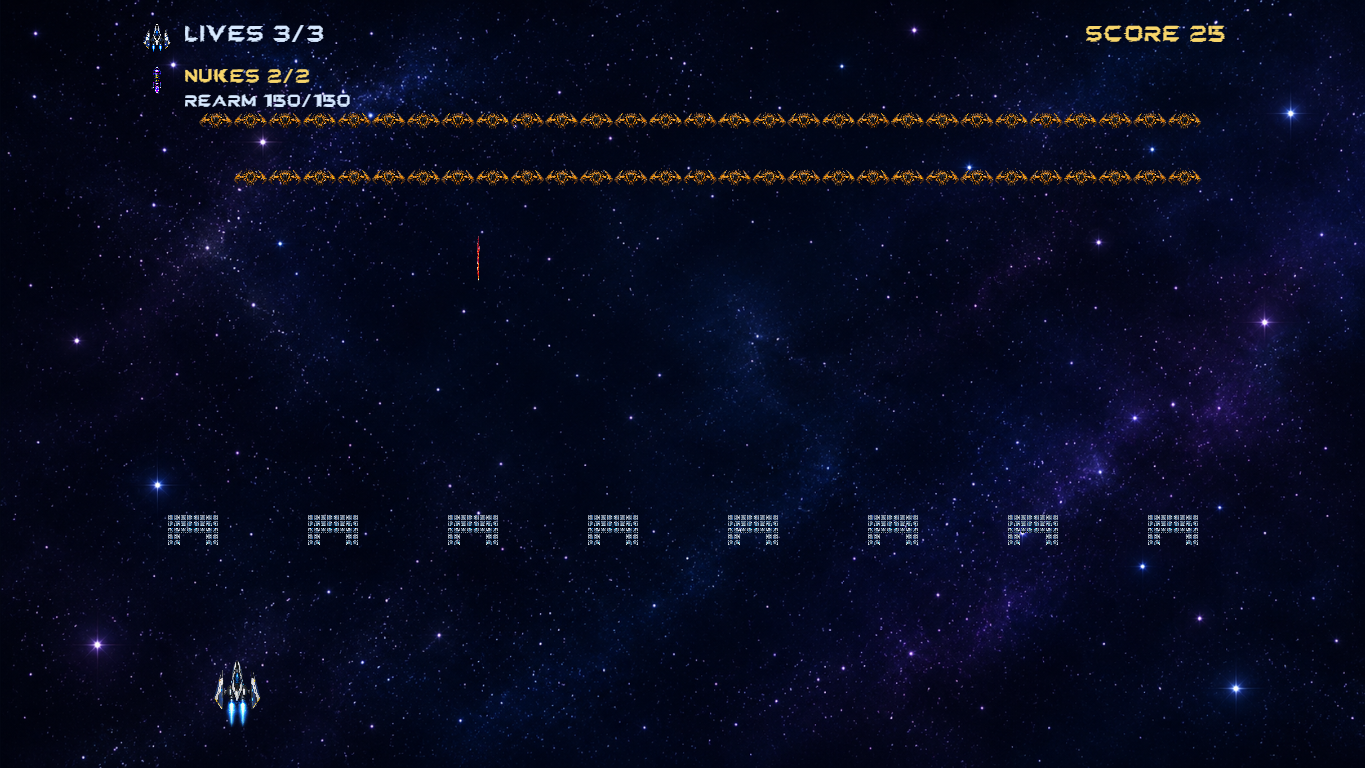
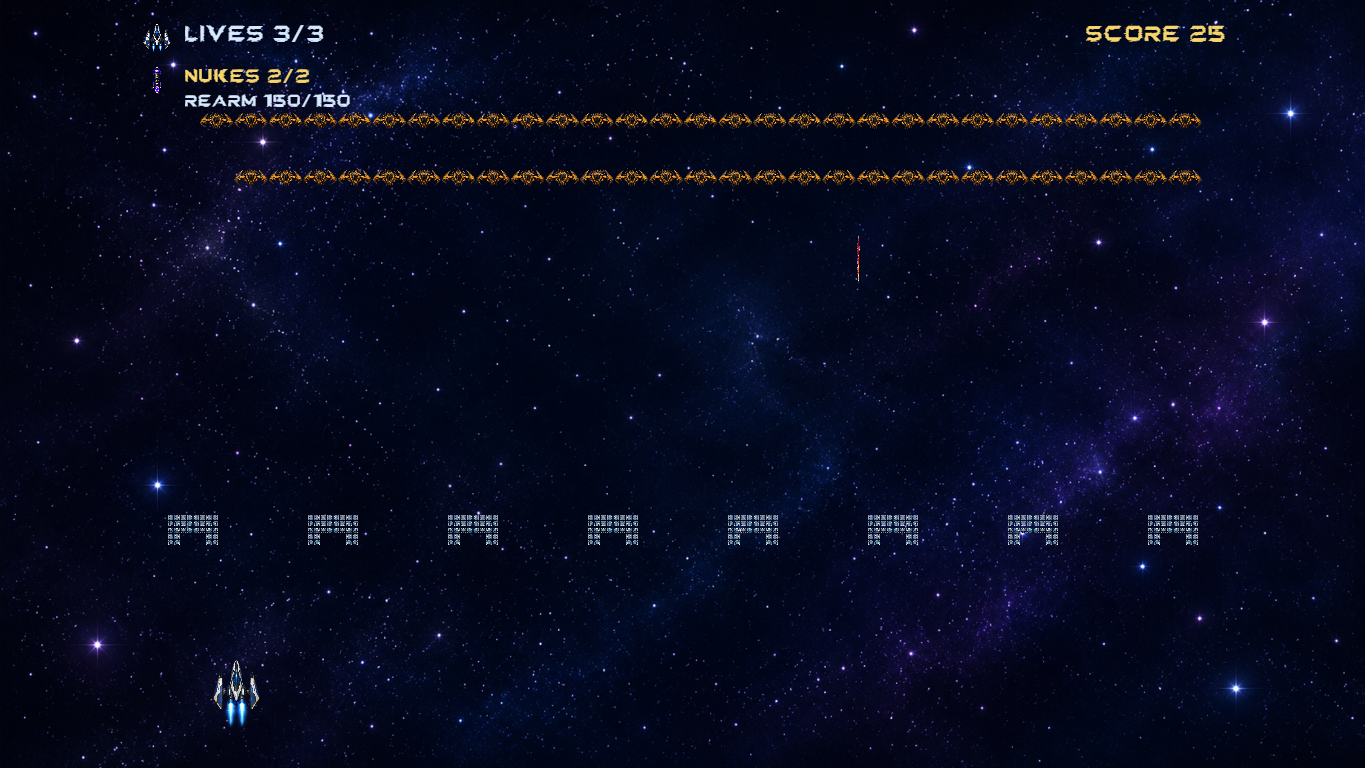
harden rev3 hostile nuke probe

Changed region(s): [[0.1538, 0.125, 0.8923, 0.1875], [0.1538, 0.2188, 0.8923, 0.25], [0.1538, 0.875, 0.1846, 0.9375]]

diff --git a/docs/internal_governance/registers/GG_REGISTER_EVIDENCE.md b/docs/internal_governance/registers/GG_REGISTER_EVIDENCE.md
@@ -100,6 +100,6 @@
 | GG-DEVTEAM-010-REV2-EV-005 | GALACTIC_GUNNERS_DEVTEAM_HANDOFF_IN_010_REV2 | sealed Handoff-Out REV2 | `docs/internal_governance/handoff_out/_archive/GALACTIC_GUNNERS_DEVTEAM_HANDOFF_OUT_010_REV2/04_SEALED_RETURN/GALACTIC_GUNNERS_DEVTEAM_HANDOFF_OUT_010_REV2.md` | recorded externally after sealing | 2026-08-25 | CURRENT | Non-self-referential REV2 Handoff-Out record; final pushed SHA and local/remote equality recorded externally after final push. |
 | GG-DEVTEAM-010-REV3-EV-001 | GALACTIC_GUNNERS_DEVTEAM_HANDOFF_IN_010_REV3 | inbound commission and transport preservation | `docs/internal_governance/handoff_in/_archive/GALACTIC_GUNNERS_DEVTEAM_HANDOFF_IN_010_REV3/` | direct pasted commission SHA-256 7CD02D0795B26EE9BE90659E407980221AB7C2C56E0CD8E6ECDA590E56195B9D; transport ZIP SHA-256 2A73CE8AD99B36600E942916731D3BBED58C1BFCD205147A6528A36B230D3912 | 2026-08-25 | CURRENT | REV3 Founder/CTO commission preserved; transport pack hashed, inventoried, unpacked into inspectable governed archive files and removed from POST_BOX. |
 | GG-DEVTEAM-010-REV3-EV-002 | GALACTIC_GUNNERS_DEVTEAM_HANDOFF_IN_010_REV3 | scale and gameplay composition correction evidence | `docs/internal_governance/evidence/GALACTIC_GUNNERS_DEVTEAM_HANDOFF_IN_010_REV3/REV3_SCALE_GAMEPLAY_CORRECTION.md` | PASS | 2026-08-25 | CURRENT | Records REV2->REV3 scale table, laser source/render/body dimensions, projectile speed derivation, 8-bunker proof, nuke asset IDs/hashes, nuke/rearm trace, pause trace and scope exclusions. |
-| GG-DEVTEAM-010-REV3-EV-003 | GALACTIC_GUNNERS_DEVTEAM_HANDOFF_IN_010_REV3 | hostile runtime and visual composition evidence | `docs/internal_governance/evidence/GALACTIC_GUNNERS_DEVTEAM_HANDOFF_IN_010_REV3/browser_runtime/` | runtime-hostile-verification.json SHA-256 7CC89EF2C67B036B3AE46BB0398C8E802E2CCEBEB3F64A7BCE3E8BBD65EAED7A | 2026-08-25 | CURRENT | Verifies REV3 player/scout scale ratios, 58 enemies, 8 bunkers, 256 shield tiles, shield lower-lane gap, real-origin laser hit/near-miss, laser visual/body mapping, nukes/rearm/HUD, pause/resume, retained REV2 hostile cases and unexpected console/network failures 0. |
+| GG-DEVTEAM-010-REV3-EV-003 | GALACTIC_GUNNERS_DEVTEAM_HANDOFF_IN_010_REV3 | hostile runtime and visual composition evidence | `docs/internal_governance/evidence/GALACTIC_GUNNERS_DEVTEAM_HANDOFF_IN_010_REV3/browser_runtime/` | runtime-hostile-verification.json SHA-256 B2F60C25AF54E3F631155F684CE9CB168BFB30A783513822513AE5CC1D601658 | 2026-08-25 | CURRENT | Verifies REV3 player/scout scale ratios, 58 enemies, 8 bunkers, 256 shield tiles, shield lower-lane gap, real-origin laser hit/near-miss, laser visual/body mapping, nukes/rearm/HUD, pause/resume, retained REV2 hostile cases and unexpected console/network failures 0. |
 | GG-DEVTEAM-010-REV3-EV-004 | GALACTIC_GUNNERS_DEVTEAM_HANDOFF_IN_010_REV3 | quality and Docker runtime evidence | `docs/internal_governance/evidence/GALACTIC_GUNNERS_DEVTEAM_HANDOFF_IN_010_REV3/QUALITY_RESULTS.md` | PASS | 2026-08-25 | CURRENT | Records `npm run quality`, Docker rebuild/start and hostile runtime PASS at `http://localhost:3002`. |
 | GG-DEVTEAM-010-REV3-EV-005 | GALACTIC_GUNNERS_DEVTEAM_HANDOFF_IN_010_REV3 | sealed Handoff-Out REV3 | `docs/internal_governance/handoff_out/_archive/GALACTIC_GUNNERS_DEVTEAM_HANDOFF_OUT_010_REV3/04_SEALED_RETURN/GALACTIC_GUNNERS_DEVTEAM_HANDOFF_OUT_010_REV3.md` | recorded externally after sealing | 2026-08-25 | CURRENT | Non-self-referential REV3 Handoff-Out record; final pushed SHA and local/remote equality recorded externally after final push. |

diff --git a/docs/internal_governance/evidence/GALACTIC_GUNNERS_DEVTEAM_HANDOFF_IN_010_REV3/REV3_SCALE_GAMEPLAY_CORRECTION.md b/docs/internal_governance/evidence/GALACTIC_GUNNERS_DEVTEAM_HANDOFF_IN_010_REV3/REV3_SCALE_GAMEPLAY_CORRECTION.md
@@ -71,7 +71,7 @@ Runtime trace:
 ## Evidence
 
 - Hostile runtime report: `docs/internal_governance/evidence/GALACTIC_GUNNERS_DEVTEAM_HANDOFF_IN_010_REV3/browser_runtime/runtime-hostile-verification.json`.
[2 lines of base64/hex data omitted]
 - Screenshots include player/enemy laser mid-flight, nuke projectile, nuke burst, pause overlay, viewport matrix, mission complete/failed and active resize.
 - Transport receiving record: `docs/internal_governance/handoff_in/_archive/GALACTIC_GUNNERS_DEVTEAM_HANDOFF_IN_010_REV3/TRANSPORT_RECEIVING_RECORD.md`.
 - Transport member inventory: `docs/internal_governance/handoff_in/_archive/GALACTIC_GUNNERS_DEVTEAM_HANDOFF_IN_010_REV3/transport_pack_member_inventory.json`.
